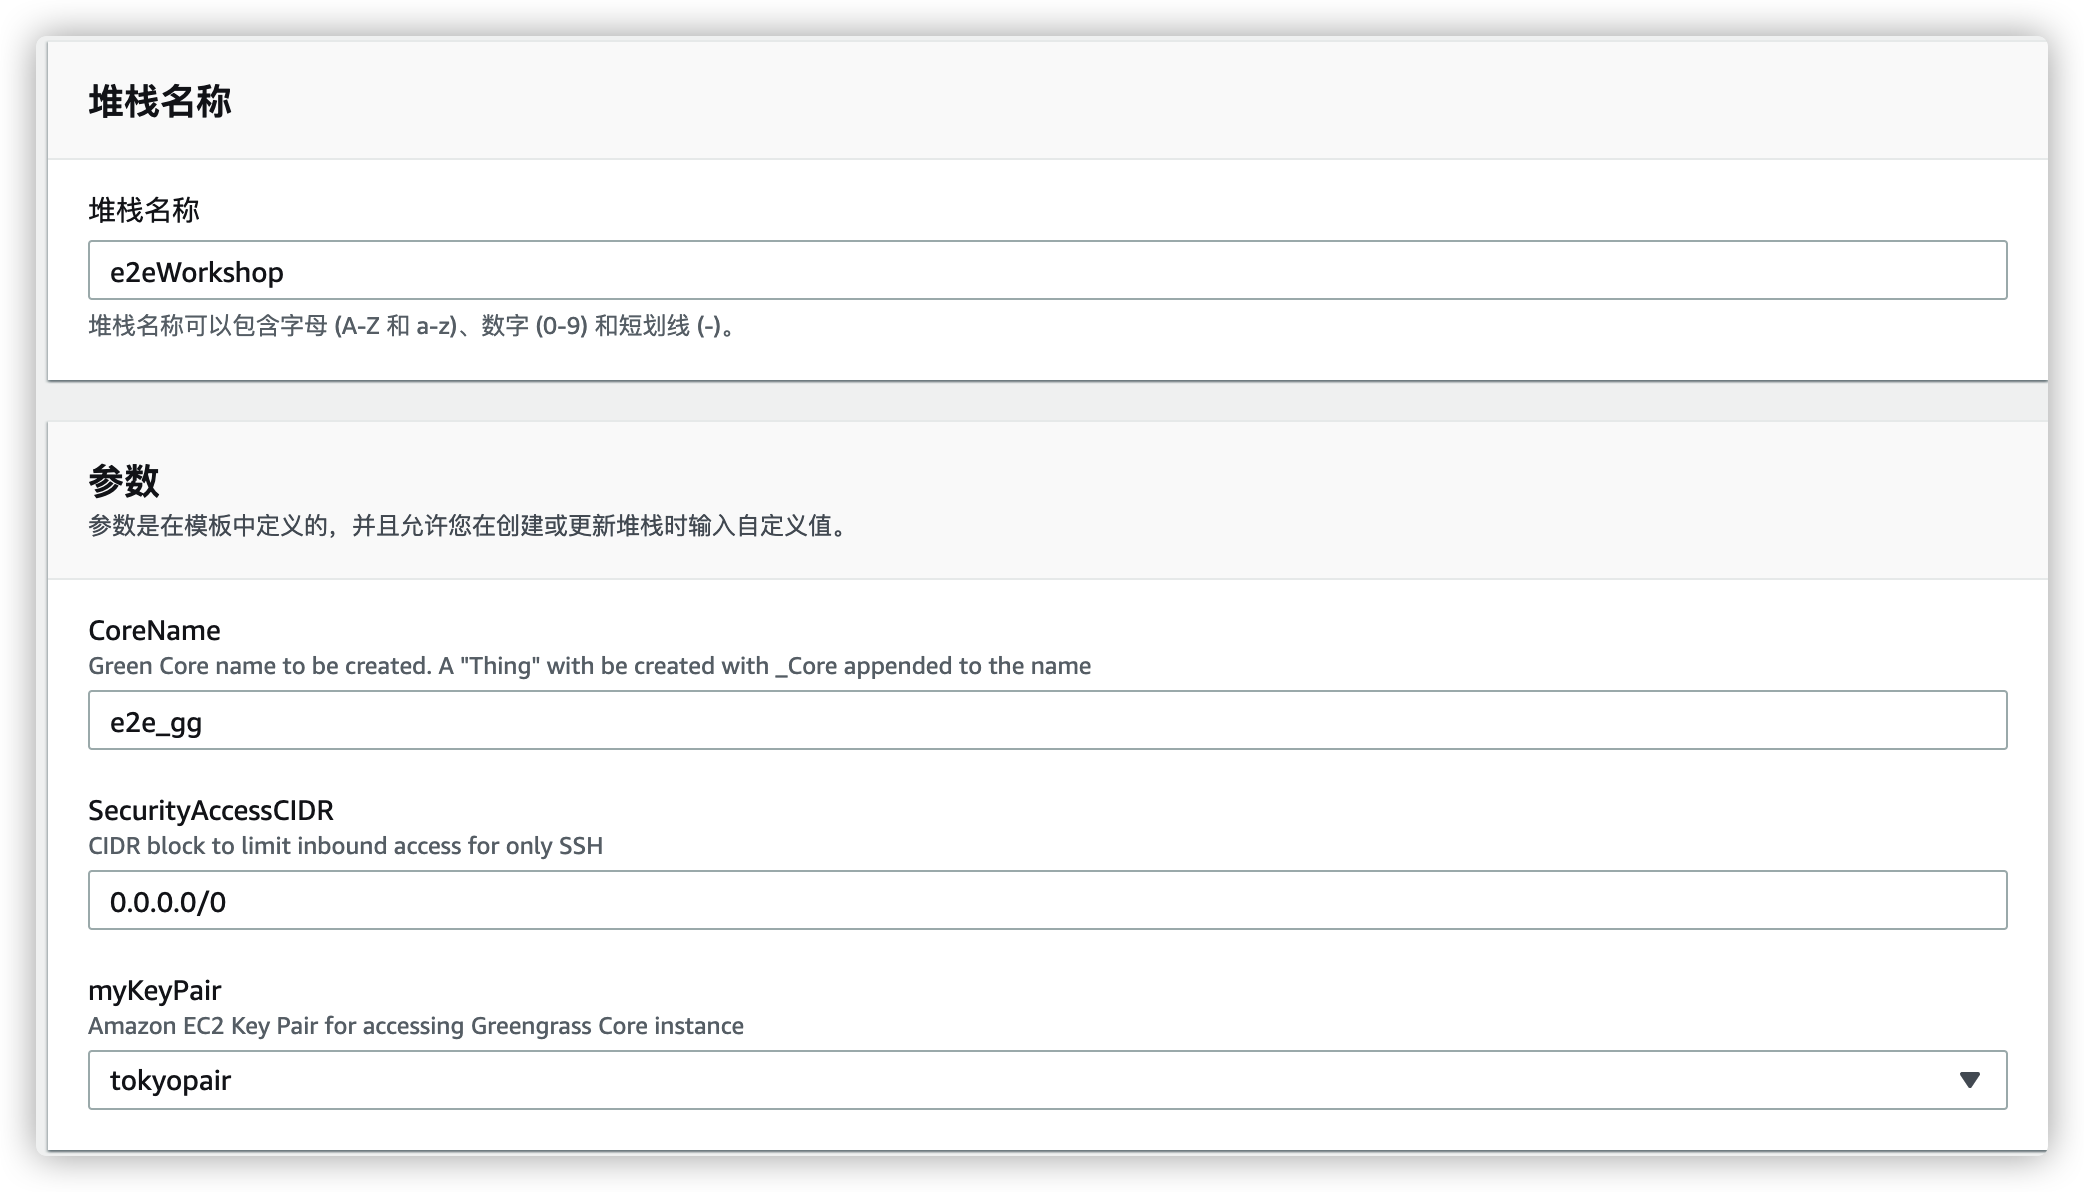
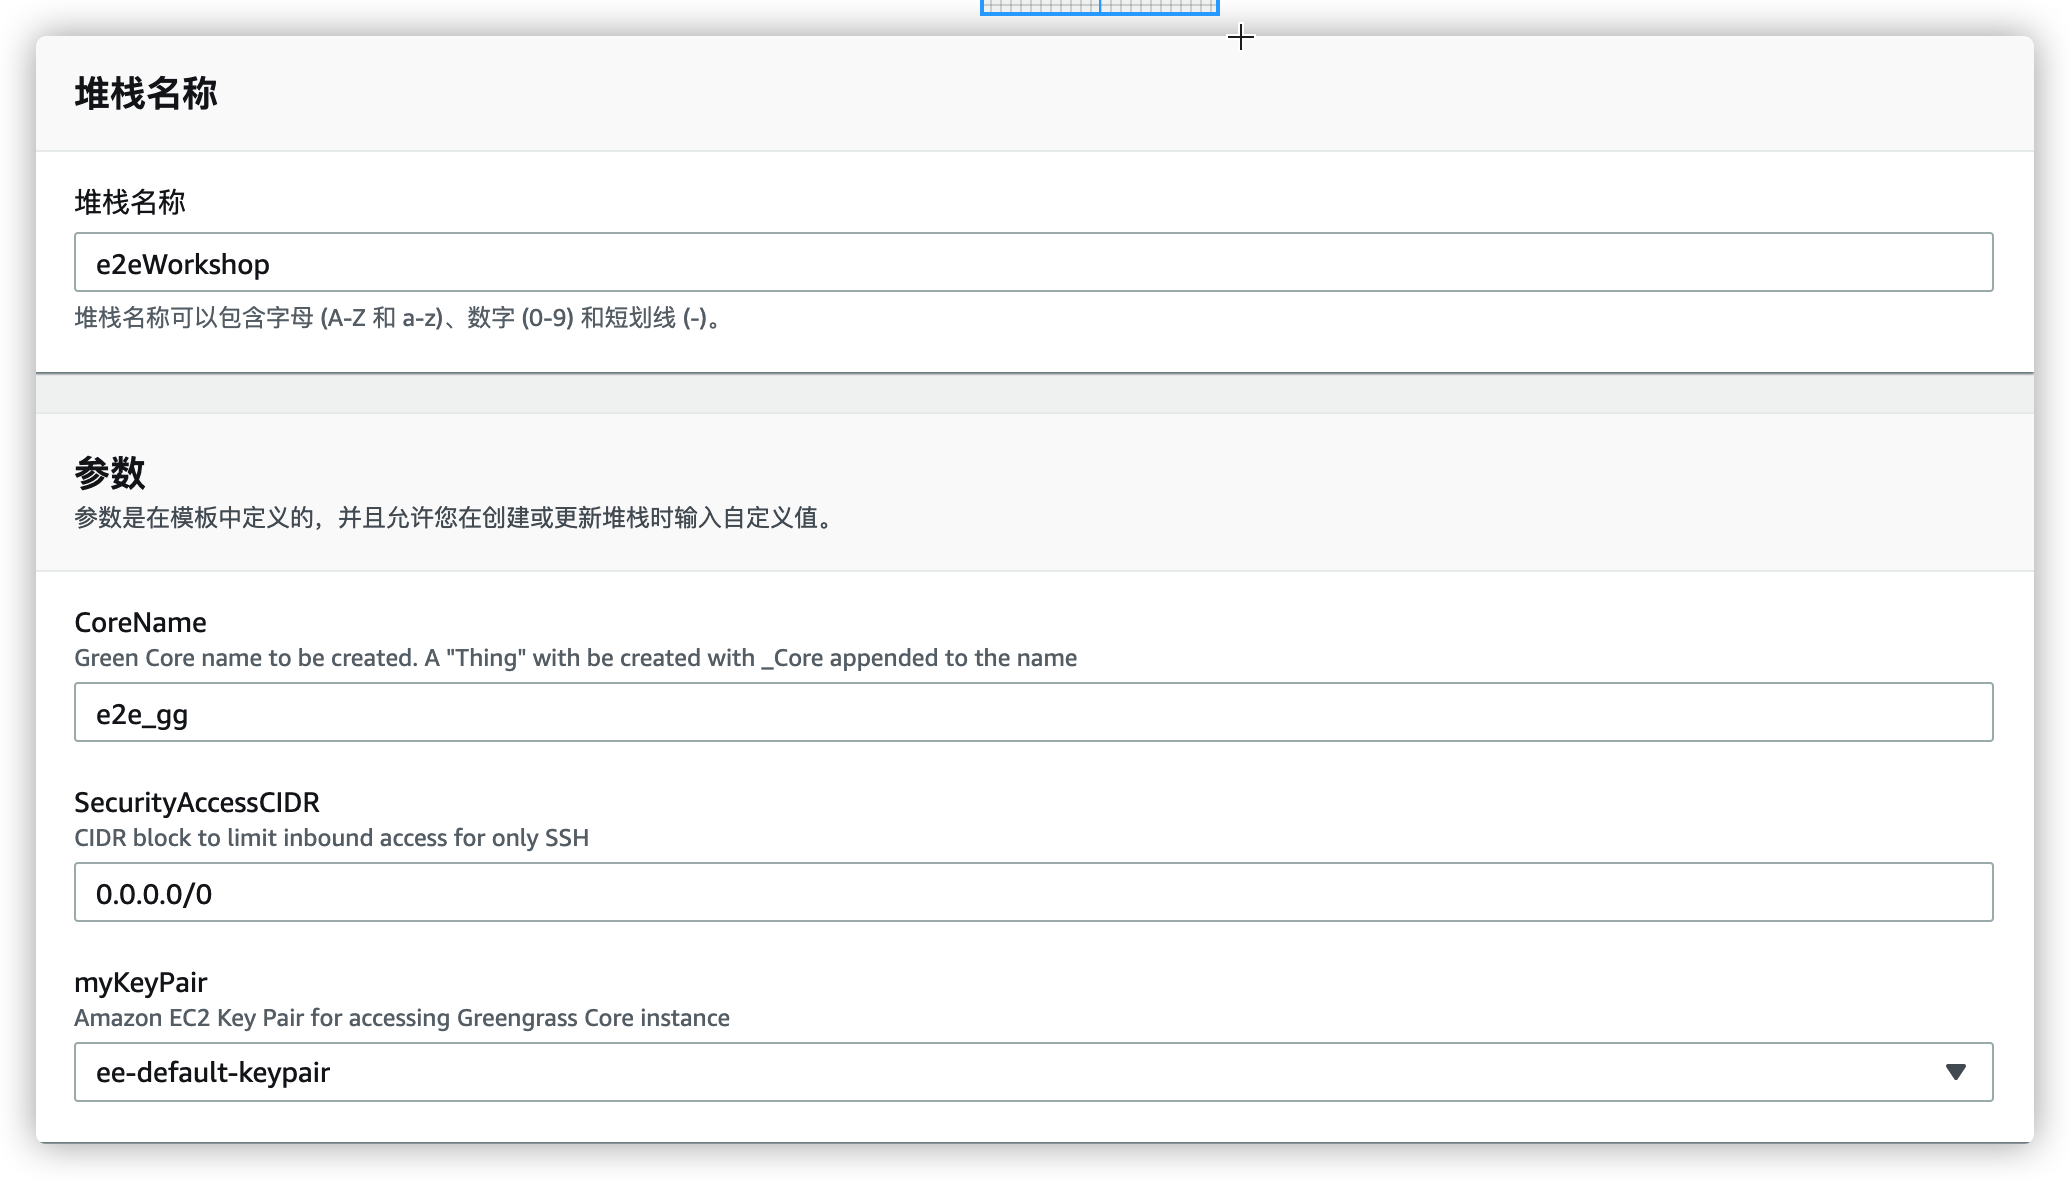
Region_Chage
Change Region to UE1,CNF merged into one

diff --git a/content/2.IoT/3_IoT_Analytics.md b/content/2.IoT/3_IoT_Analytics.md
@@ -1,12 +1,12 @@
 ---
-title: "配置AWS IoT Analytics 和数据展示环境(可选)"
+title: "配置AWS IoT Analytics 进行数据展示"
 chapter: false
 weight: 23
 ---
 接下来我们将使用AWS IoT Analytics对数据进行预处理和转存储,并结合Cloudwatch对特定的指标进行监控.
 
 在AWS 控制台中找到AWS IoT Analytics或者直接点击
-[AWS IoT Analytics](https://ap-northeast-1.console.aws.amazon.com/iotanalytics/home?region=ap-northeast-1#)
+[AWS IoT Analytics](https://console.aws.amazon.com/iotanalytics/home?region=us-east-1#)
 
 进入第一次运行界面,进行以下配置
 
@@ -20,7 +20,7 @@ weight: 23
 
 接下来我们在AWS IoT 规则引擎中,增加IoT 消息到 AWS IoT Analytics的规则.
 
-回到AWS IoT 服务界面,找到[规则](https://ap-northeast-1.console.aws.amazon.com/iot/home?region=ap-northeast-1#/rulehub)
+回到AWS IoT 服务界面,找到[规则](https://console.aws.amazon.com/iot/home?region=us-east-1#/rulehub)
 
 我们使用前期创建的e2eIoTRule规则
 
@@ -53,15 +53,15 @@ weight: 23
 在编辑活动中按如下步骤配置:
 1. **消息属性**中可以预览在Payload中的属性.这一步保持默认,点击**下一步**
 2. 在**管道活动**中,选择一个活动中选择**使用Lambda转换消息**,并点击下方**添加**
-3. 在下方**使用 Lambda 函数转换消息**中Lambda 函数 中选择以e2eWorkshop-IoTanalytics-IoT2CWLambdaXX开头的Lambda函数,点击**下一步**.
+3. 在下方**使用 Lambda 函数转换消息**中Lambda 函数 中选择以e2eWorkshop-IoT2CWLambdaXX开头的Lambda函数,其他选项保持默认,点击**下一步**.
 4. 点击**更新**
 
 
-接下来转到Cloudwatch服务,[Cloudwatch](https://console.amazonaws.cn/cloudwatch/home?region=cn-north-1#metricsV2:graph=~())
+接下来转到Cloudwatch服务,或点击[Cloudwatch](https://console.aws.amazon.com/cloudwatch/home?region=us-east-1#metricsV2:graph=~())
 
-在左侧指标中找到指标,在自定义命名空间中可以看到PDMIoT/Monitor这个命名空间.
+在左侧指标中找到指标,在自定义命名空间中可以看到E2EIoT/Monitor这个命名空间.
 
-接下来,我们转到左侧[Cloudwatch的控制面板](https://ap-northeast-1.console.aws.amazon.com/cloudwatch/home?region=ap-northeast-1#dashboards:)中,
+接下来,我们转到左侧[Cloudwatch的控制面板](https://console.aws.amazon.com/cloudwatch/home?region=us-east-1#dashboards:)中,
 - 点击创建控制面板
 - 在新建控制面板名称中输入你需要创建的控制面板名称,例如*E2E-Dashboard*,点击创建控制面板
 - 由于我们监控的指标中大部分是随时间变化的指标,在小部件中可以选择线性图,如果指标为其他数值也可以选择其他部件,点击**下一步**
@@ -70,14 +70,9 @@ weight: 23
 ![](/images/IoT/dashboard1.png)
 - 点击创建小部件,即可完成Dashboard的创建,后期也可以根据监控的数据不同调整小部件的大小和内容
 
-*说明:如果需要调整观察的参数指标,可以在e2eWorkshop-IoTanalytics-IoT2CWLambda 这个lambda这个函数的环境变量中调整.*
+*说明:如果需要调整观察的参数指标,可以在e2eWorkshop-IoT2CWLambda 这个lambda这个函数的环境变量中调整.*
 
 至此本章节结束,完成IoT设备的模拟,数据发送,数据转换以及数据展示.
-
-
-
-
-
 
 
 

diff --git a/content/2.IoT/_index.md b/content/2.IoT/_index.md
@@ -6,7 +6,7 @@ weight: 20
 AWS IoT 提供云服务将 IoT 设备连接到其他设备和 AWS 云服务。AWS IoT 提供设备软件以帮助您将 IoT 设备集成到基于 AWS IoT 的解决方案。在这个部分中,我们将构建一个模拟环境用来模拟设备并发出模拟的传感器数据,传感器数据进入AWS IoT Core后我们使用Kinesis和AWS IoT Analytics进行数据的处理.
 
 完成本实验后，您搭建的IoT设备和数据环境将如下架构图所示：
-![](/images/IoT/Arc.png)
+![](/images/IoT/arc.png)
 
 1. 使用AWS IoT Greengrass 模拟设备并发送数据至AWS IoT Core
 2. AWS IoT Core 接收消息并通过规则引擎分发至Amazon Kinesis Firehose和AWS IoT Analytics
@@ -19,32 +19,23 @@ AWS IoT 提供云服务将 IoT 设备连接到其他设备和 AWS 云服务。AW
 2. 启动一个EC2 实例安装Greengrass,并启动服务
 3. 一个Lambda用来部署到Greengrass并模拟设备端产生数据
 4. 用于存储数据的存储桶(以e2eworkshop-e2edatas3bucketXXX 开头)
+5. 其他依赖的Lambda函数
 
 
 #### 1.1 登录控制台
-首先登录区 [AWS东京区域](https://ap-northeast-1.console.aws.amazon.com/console/home?region=ap-northeast-1)在登录界面输入，账户，用户名，密码登录
-
-在[EC2控制台](https://ap-northeast-1.console.aws.amazon.com/ec2/v2/home?region=ap-northeast-1#KeyPairs:)创建秘钥对界面中点击创建秘钥对
-
-在创建界面中输入名称和相应的文件格式,点击**创建秘钥对**
-
-![](/images/IoT/createkeypair.png)
-
+首先使用eventengine的AWS Console 跳转或登录 [AWS美东1区域](https://us-east-1.console.aws.amazon.com/console/home?region=us-east-1)在登录界面输入，账户，用户名，密码登录
 
 接下来进入Cloudformation服务,导入Cloudformation模板或
-[直接点击此链接直接创建](https://ap-northeast-1.console.aws.amazon.com/cloudformation/home?region=ap-northeast-1#/stacks/quickcreate?templateURL=https://pdm-workshop-jp.s3-ap-northeast-1.amazonaws.com/cfn/e2eworkshop1.yml&stackName=e2eWorkshop)
+[直接点击此链接直接创建](https://us-east-1.console.aws.amazon.com/cloudformation/home?region=us-east-1#/stacks/quickcreate?templateURL=https://pdm-workshop-ue1.s3.amazonaws.com/cfn/e2eworkshop_final.yml&stackName=e2eWorkshop)
 
 
-在参数部分,可以保留默认,也可以自定义Core设备名称,keypair处选择前期创建的EC2Key Pair
+在参数部分,可以保留默认,也可以自定义Core设备名称,keypair处选择ee-default-keypair
 ![](/images/IoT/createstack1.png)
 
 在最下方选中**我确认，AWS CloudFormation 可能创建 IAM 资源**,然后点击创建堆栈即可
 ![](/images/IoT/creatstack.png)
-
 稍等片刻等待创建完毕,
-
 ![](/images/IoT/createstack2.png)
-
 
 这时在AWS IoT 控制台--Greengrass--组 中可以找到已创建的e2e_gg组
 

diff --git a/content/2.IoT/2_Kinesis.md b/content/2.IoT/2_Kinesis.md
@@ -5,22 +5,10 @@ weight: 22
 ---
 在此部分中,我们需要会设备上传的数据存储到S3中,并在存储过程中对其进行修正和格式化.
 
-我们使用Cloudformation创建一些初始的资源,包括
-1. 用于Amazon Kinesis源记录转换用的Lambda函数(以e2eWorkshop-IoTanalytics-IoT2S3LambdaXX开头)
-2. 用户AWS IoT analytics 数据处理用的Lambda函数(以e2eWorkshop-IoTanalytics-IoT2CWLambdaXX开头)
-
-
-进入Cloudformation服务,导入Cloudformation模板或
-[直接点击此链接直接创建](https://ap-northeast-1.console.aws.amazon.com/cloudformation/home?region=ap-northeast-1#/stacks/quickcreate?templateURL=https://pdm-workshop-jp.s3-ap-northeast-1.amazonaws.com/cfn/e2eworkshop2.yml&stackName=e2eWorkshop-IoTanalytics)
-
-创建选项中可以自定义堆栈名称,或者保持默认,勾选下方**我确认，AWS CloudFormation 可能创建 IAM 资源**,点击创建即可.
-
-稍等片刻,待堆栈创建完毕.
-  
 
 接下来我们使用AWS IoT core规则引擎和Kinesis Firehose作为IoT数据转存储的服务.
 
-转到AWS IoT 服务界面,找到[规则](https://ap-northeast-1.console.aws.amazon.com/iot/home?region=ap-northeast-1#/rulehub)
+转到AWS IoT 服务界面,找到[规则](https://us-east-1.console.aws.amazon.com/iot/home?region=us-east-1#/rulehub)
 
 点击**创建规则**
 
@@ -30,7 +18,7 @@ weight: 22
 | 项目 | 配置项 | 备注 |
 | ----- | :-: | ---: |
 | 名称    | e2eIoTRule  | 可自定义  |
-| 描述    | IoT to kinesis and IoT analytic |  可选 |
+| 描述    | IoT to kinesis firehose |  可选 |
 | 规则查询语句    | SELECT * FROM 'sensor/out'  |[参考文档](https://docs.aws.amazon.com/console/iot/iot-sql-reference)|
 
 在下方**设置一个或多个操作**处,点击添加操作
